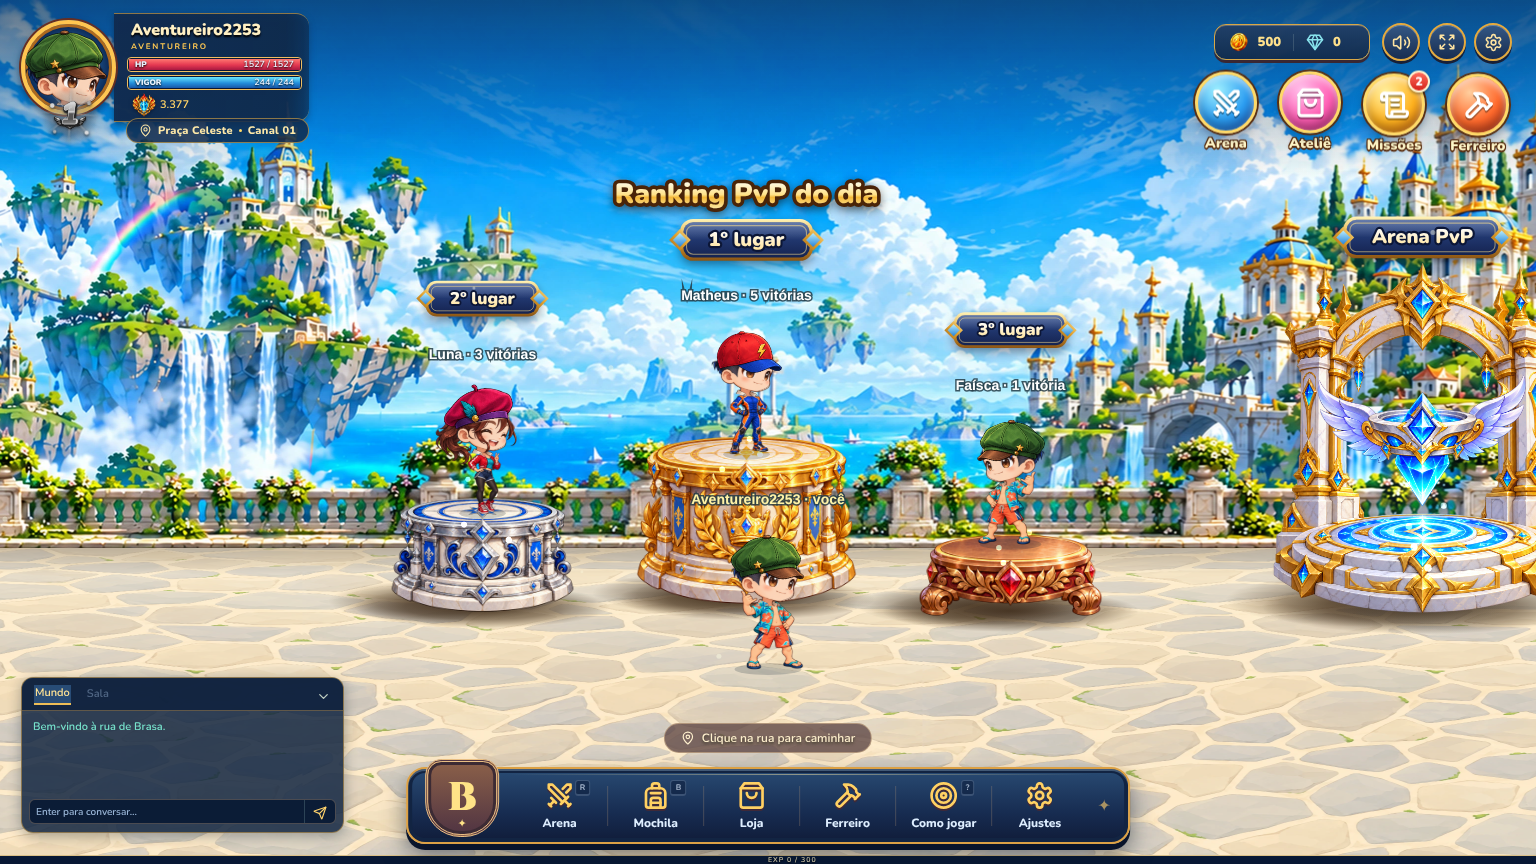
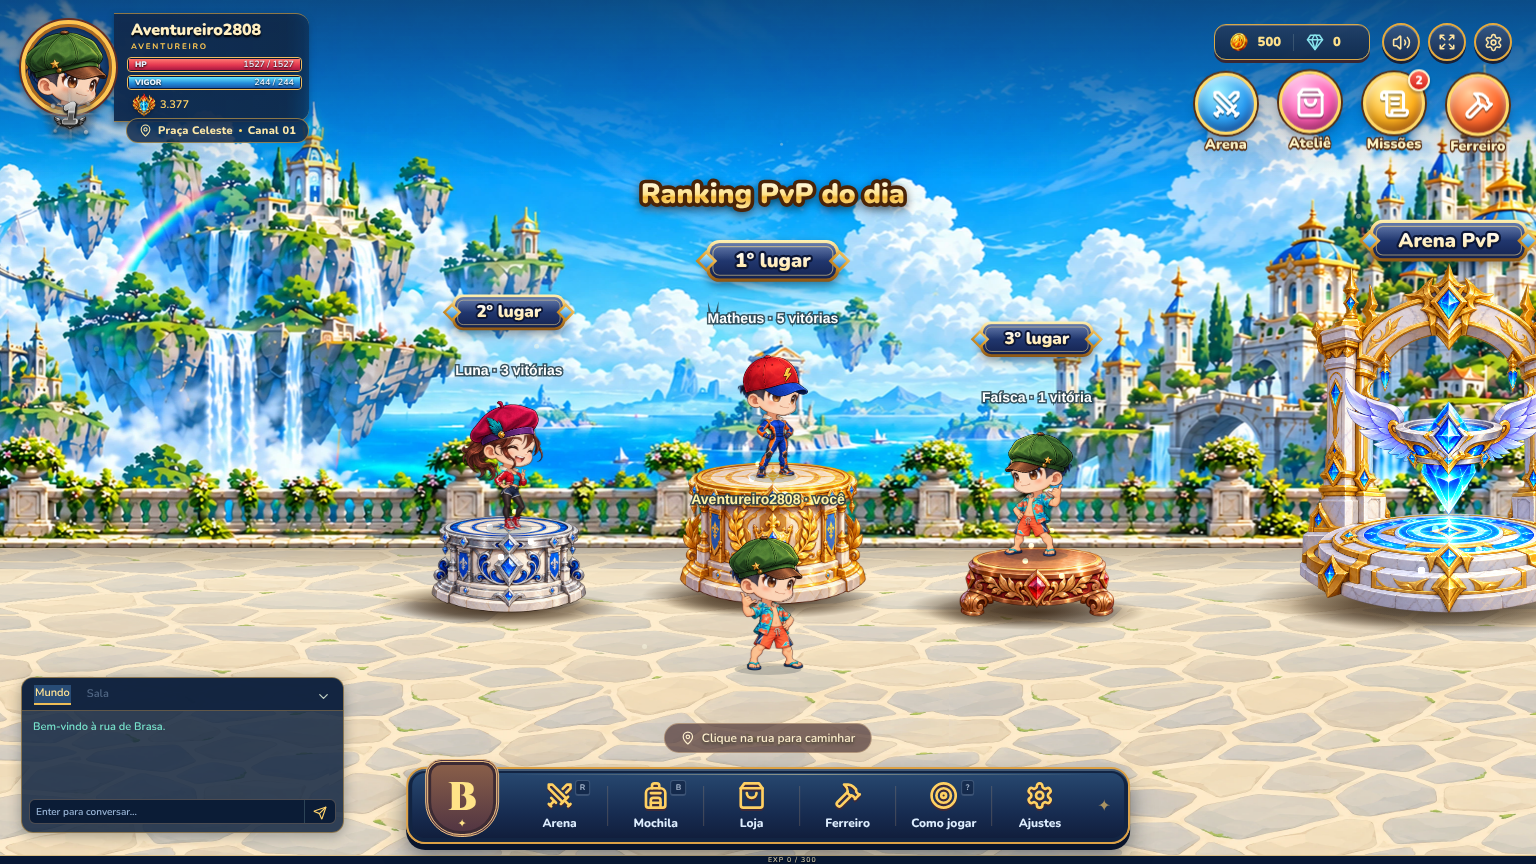
Pódios do lobby um pouco menores
Claude-Session: https://claude.ai/code/session_01W7VSmdNp4t33pNWvb4Kmtk

diff --git a/src/game/lobbyWorld.ts b/src/game/lobbyWorld.ts
@@ -43,6 +43,8 @@ export type Station={id:string;title:string;dir:string;x:number;y:number;height:
 type Shadow=[number,number,number,number,number?];
 // Pivots were measured on Codex's layers (17/10): canvases are
 // 1400×1200 for keepers and 1200×1400 for the gate and podiums.
+/** Podiums sit a little smaller than the other stations so the ranked players stand out. */
+const PODIUM_HEIGHT=255;
 export const LOBBY_STATIONS:Station[]=[
  {id:'shop',title:'Ateliê',dir:'npc-loja',x:560,y:626,height:300,action:'shop',shadows:[[.5,.95,.5,.05],[.51,.99,.09,.02]],fallback:{kind:'keeper',outfit:'surfer',hat:'hat-tide',facing:1},layers:[
   {name:'barraca',motion:'still'},{name:'npc',motion:'breathe'}]},
@@ -50,7 +52,7 @@ export const LOBBY_STATIONS:Station[]=[
   {name:'burro',motion:'breathe',period:3400},{name:'npc',motion:'breathe'}]},
  // All podium canvases share one scale, so they share one height; `stand` is the centre of each top.
  ...([[2,2040,616,[.5,.66],SILVER],[1,2304,608,[.5,.49],GOLD],[3,2568,620,[.5,.75],BRONZE]] as const).map(([rank,x,y,stand,theme]):Station=>({
-  id:`podium-${rank}`,title:`${rank}º lugar`,dir:`podio-${rank}`,x,y,height:300,rank,noCast:true,shadows:[[.5,.97,.5,.07,1.5],[.34,.95,.44,.07,1.1]],stand:[stand[0],stand[1]],glow:{x,y:y-300*(1-stand[1])+40,scale:.8,theme},
+  id:`podium-${rank}`,title:`${rank}º lugar`,dir:`podio-${rank}`,x,y,height:PODIUM_HEIGHT,rank,noCast:true,shadows:[[.5,.97,.5,.07,1.5],[.34,.95,.44,.07,1.1]],stand:[stand[0],stand[1]],glow:{x,y:y-PODIUM_HEIGHT*(1-stand[1])+40,scale:.8,theme},
   fallback:{kind:'podium',portal:{x,y,scale:1,theme}},layers:[{name:'base',motion:'still'},{name:'brilho',motion:'pulse'}]})),
  {id:'arena',title:'Arena PvP',dir:'portal-arena',x:2980,y:618,height:360,action:'arena',noCast:true,shadows:[[.5,.97,.52,.075,1.5],[.34,.95,.48,.075,1.1]],glow:{x:2980,y:600,scale:1.1,theme:BLUE},fallback:{kind:'gate',portal:{x:2980,y:600,scale:1.1,theme:BLUE,wings:true}},layers:[
   {name:'base',motion:'still'},{name:'asas',motion:'sway',pivot:[.5,.45],period:1700,amount:.03},{name:'calice',motion:'bob',period:2400,amount:8}]},
